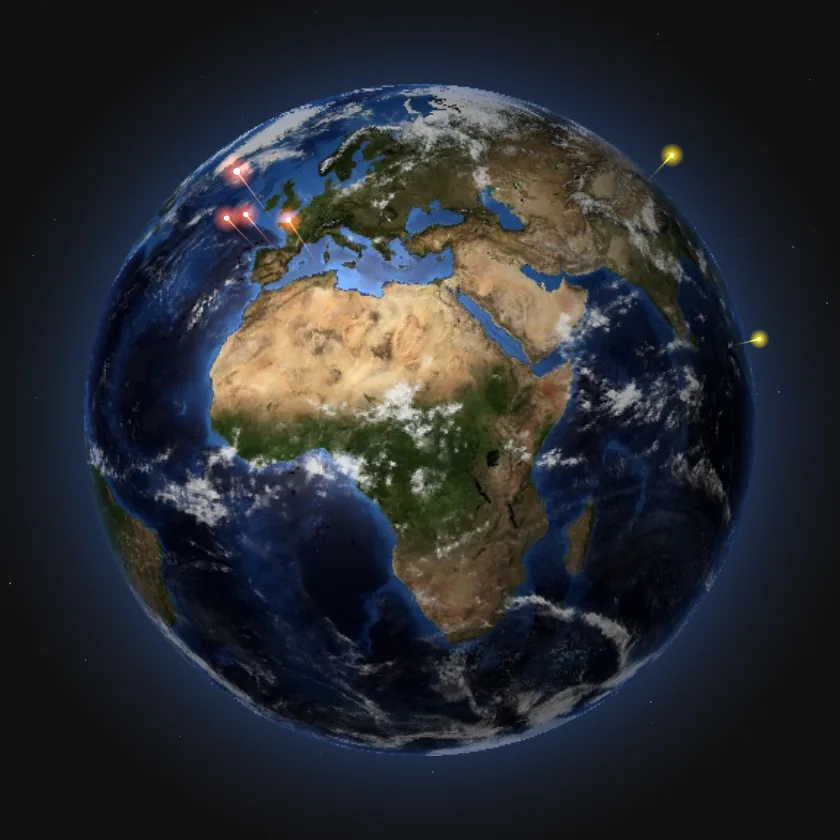
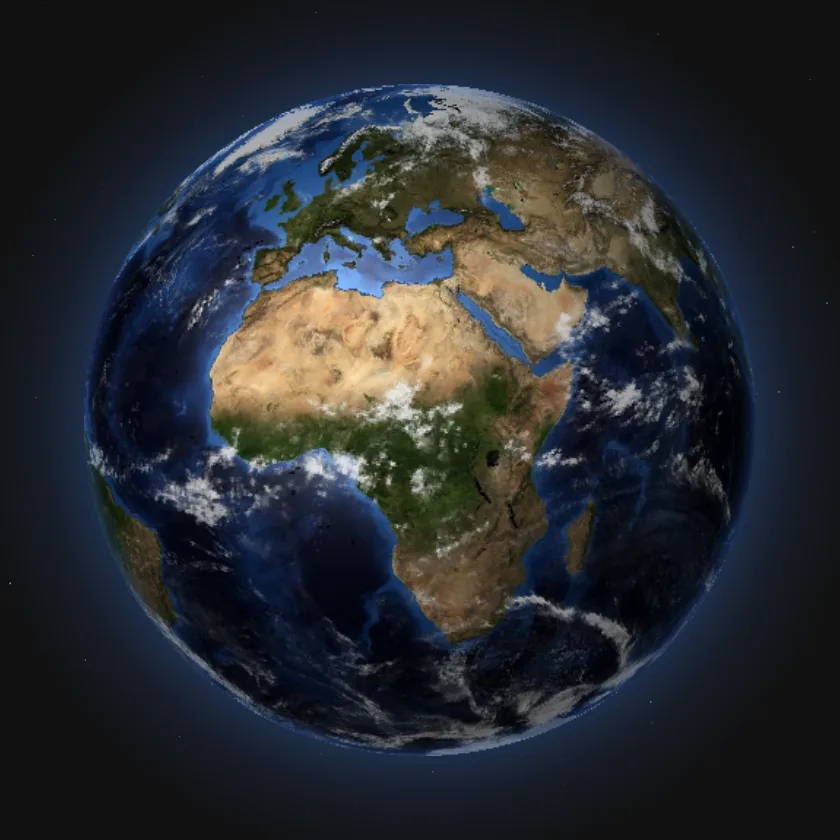
feat: marker-free poster + front-page composition polish
Regenerate pulse-globe-poster.webp with markers=[] — the v1 poster baked
stale build-day pins, a final-review niggle now fixed. Captured via a
temporary /poster-capture route (deleted after) + headless Chrome +
magick, same automation as v1's Task 8.

Carried one-liners from Task 3's review: drop the dead containerWidth
field from Anchor (its only consumer, the right: branch, was already
removed) and swap window.innerWidth for document.documentElement.clientWidth
in the card clamp so a classic (non-macOS) scrollbar can't eat the 8px
viewport margin.

Rendered composition pass at 1440x900 and 390x844 (Playwright) found no
layout break: no horizontal scroll, mast/globe don't overlap, chips
reachable, live line visible — globals.css untouched.

Changed region(s): [[0.2476, 0.1857, 0.3714, 0.2786], [0.8976, 0.3714, 0.9286, 0.4333], [0.7738, 0.1548, 0.8048, 0.2167]]

diff --git a/src/components/hero-front-page.tsx b/src/components/hero-front-page.tsx
@@ -53,7 +53,6 @@ interface Anchor {
   /** Container-local snapshot, for positioning math relative to
    *  .night-hero-planet (the card's actual CSS containing block — bleed
    *  doesn't affect this, it's pure container geometry). */
-  containerWidth: number;
   containerHeight: number;
   /** Viewport-relative X of the pin at the moment this anchor was set — the
    *  edge-flip decision (Important 1) has to compare against the viewport,
@@ -138,13 +137,12 @@ export function HeroFrontPage({ snapshot, articles }: { snapshot: PulseSnapshot;
     // Read here, in the event handler — not in the render body, where
     // reading a ref's .current is disallowed (react-hooks/refs).
     const rect = globeRef.current?.getBoundingClientRect();
-    const containerWidth = rect?.width ?? 0;
     const containerHeight = rect?.height ?? 0;
     const viewportX = (rect?.left ?? 0) + x;
     setHover((prev) => {
       if (id === null) return prev === null ? prev : null;
       if (prev && prev.id === id && prev.x === x && prev.y === y) return prev;
-      return { id, x, y, containerWidth, containerHeight, viewportX };
+      return { id, x, y, containerHeight, viewportX };
     });
   }, []);
 
@@ -155,11 +153,10 @@ export function HeroFrontPage({ snapshot, articles }: { snapshot: PulseSnapshot;
         return;
       }
       const rect = globeRef.current?.getBoundingClientRect();
-      const containerWidth = rect?.width ?? 0;
       const containerHeight = rect?.height ?? 0;
       const pos = hover && hover.id === id ? { x: hover.x, y: hover.y } : lastPointerRef.current;
       const viewportX = (rect?.left ?? 0) + pos.x;
-      setSticky({ id, x: pos.x, y: pos.y, containerWidth, containerHeight, viewportX });
+      setSticky({ id, x: pos.x, y: pos.y, containerHeight, viewportX });
     },
     [hover]
   );
@@ -185,19 +182,25 @@ export function HeroFrontPage({ snapshot, articles }: { snapshot: PulseSnapshot;
   //
   // cardWidth is computed from the same formula as the CSS
   // (`width: min(78vw, 220px)`) rather than hardcoded, so the two can't drift
-  // apart. window is only touched once `active` is truthy, which requires a
-  // prior user interaction (post-mount) — never reached during SSR/first render.
+  // apart. document.documentElement.clientWidth (not window.innerWidth) so a
+  // classic scrollbar (~15px, non-macOS) is excluded from the viewport width
+  // used for the clamp — innerWidth includes the scrollbar's own real estate,
+  // which would let the clamp place a card 15px further right than the
+  // visible viewport actually allows, eating into the 8px margin. Only
+  // touched once `active` is truthy, which requires a prior user interaction
+  // (post-mount) — never reached during SSR/first render.
   let cardStyle: { top: number; left: number } | undefined;
   if (active) {
-    const cardWidth = Math.min(window.innerWidth * CARD_WIDTH_VW_FRACTION, CARD_MAX_WIDTH_PX);
+    const viewportWidth = document.documentElement.clientWidth;
+    const cardWidth = Math.min(viewportWidth * CARD_WIDTH_VW_FRACTION, CARD_MAX_WIDTH_PX);
     const rightTight =
-      active.viewportX + cardWidth + CARD_OFFSET_PX > window.innerWidth - VIEWPORT_EDGE_MARGIN_PX;
+      active.viewportX + cardWidth + CARD_OFFSET_PX > viewportWidth - VIEWPORT_EDGE_MARGIN_PX;
     const desiredViewportLeft = rightTight
       ? active.viewportX - cardWidth - CARD_OFFSET_PX
       : active.viewportX + CARD_OFFSET_PX;
     const clampedViewportLeft = Math.min(
       Math.max(desiredViewportLeft, VIEWPORT_EDGE_MARGIN_PX),
-      window.innerWidth - cardWidth - VIEWPORT_EDGE_MARGIN_PX
+      viewportWidth - cardWidth - VIEWPORT_EDGE_MARGIN_PX
     );
     // Convert back to container-local: the card's actual CSS containing
     // block is .night-hero-planet (position: absolute resolves against it),
